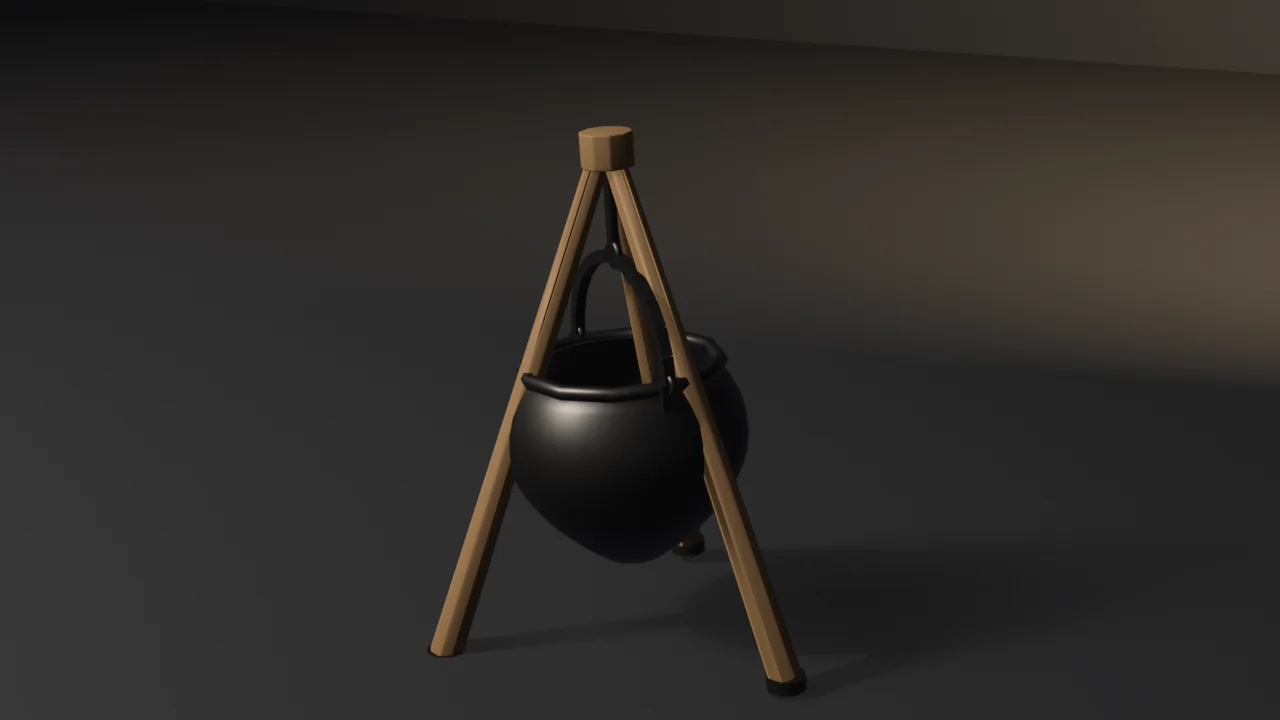
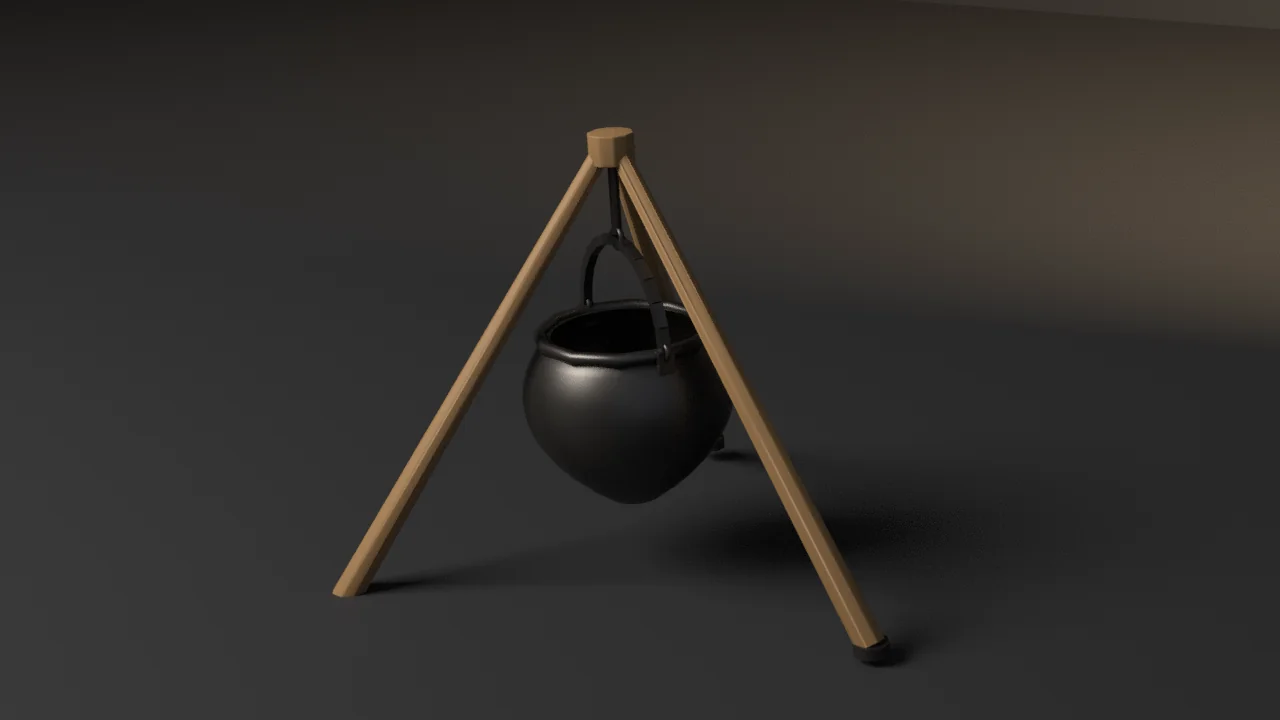
fix: hang the iron cauldron inside the tripod

Changed region(s): [[0.25, 0.1833, 0.7188, 0.9778]]

diff --git a/docs/gallery/iron-cauldron/index.html b/docs/gallery/iron-cauldron/index.html
@@ -253,7 +253,7 @@
       <img src="../assets/iron-cauldron-hero.webp" alt="iron-cauldron render" width="1280" height="720" />
     </button>
     <p class="zoom-hint">Rendered headless by the example itself — click to zoom.</p>
-    <div class="callout"><span class="tag">witnesses</span> Recomputed: 3388 tris, two materials with 450 wood and 1198 metal faces, UVs in 0..1 with zero AABB overlap, outer AABB 0.606×0.591×0.826 m, LOD ratios in band (5.2 COLLAPSE 4 tris leaner on LOD2), convex collider 180 tris, non-empty glTF. --skip-decimate exits 9 on the LOD1 ratio budget.</div>
+    <div class="callout"><span class="tag">witnesses</span> Recomputed: 3388 tris, two materials with 450 wood and 1198 metal faces, UVs in 0..1 with zero AABB overlap, outer AABB 1.013×0.986×0.827 m, pot–leg clearance 0.051 m, LOD ratios in band (5.2 COLLAPSE 8 tris leaner on LOD2), convex collider 98 tris, non-empty glTF. --skip-decimate exits 9 on the LOD1 ratio budget.</div>
     <div class="runline">
       <pre id="runCmd">blender --background --python showcase/iron-cauldron/iron_cauldron.py --</pre>
       <button class="copy-btn" id="copyRun" type="button">Copy</button>
@@ -264,7 +264,7 @@
 <p><strong>Composes</strong> skills <code>mesh-editing-and-bmesh</code>, <code>bake-high-to-low</code>, <code>depsgraph-and-evaluated-data</code>, <code>engine-export-presets</code>, and snippets <code>bake_normal_high_to_low.py</code>, <code>setup_bake_target_image.py</code>, <code>lod_chain.py</code> / <code>decimate_to_budget.py</code>, <code>convex_hull_collider.py</code>, <code>export_preset_unity.py</code> (helpers copied, not imported as a package).</p>
 <h2>Budgets</h2>
 <p>Declared as named constants; every gate <strong>recomputes</strong> from the mesh, materials, UVs, evaluated LOD, collider, or export file.</p>
-<p>| Axis | Declared | Measured (4.5.11 / 5.1.2 / 5.2.1) | | --- | --- | --- | | Base triangles | 3280–3520 | 3388 / 3388 / 3388 | | LOD1 ratio | 0.32–0.62 of base | 0.5000 / 0.5000 / 0.5000 | | LOD2 ratio | 0.10–0.35 of base | 0.2196 / 0.2196 / 0.2184 | | Materials | exactly 2 distinct, ≥12 wood, ≥24 metal | 2 slots, 450 wood, 1198 metal | | UVs | in <code>0..1</code>, AABB overlap ≤ 1e-5 | in range, overlap 0 | | Outer AABB | (0.606, 0.591, 0.826) m ± 0.01 | (0.6061, 0.5911, 0.8255), zmin 0.002 | | Collider tris | ≤ 200 | 180 | | Export | written, size &gt; 0 | 250748 / 250748 / 250736 bytes |</p>
+<p>| Axis | Declared | Measured (4.5.11 / 5.1.2 / 5.2.1) | | --- | --- | --- | | Base triangles | 3280–3520 | 3388 / 3388 / 3388 | | LOD1 ratio | 0.32–0.62 of base | 0.5000 / 0.5000 / 0.5000 | | LOD2 ratio | 0.10–0.35 of base | 0.2196 / 0.2196 / 0.2172 | | Materials | exactly 2 distinct, ≥12 wood, ≥24 metal | 2 slots, 450 wood, 1198 metal | | UVs | in <code>0..1</code>, AABB overlap ≤ 1e-5 | in range, overlap 0 | | Outer AABB | (1.013, 0.986, 0.827) m ± 0.01 | (1.0128, 0.9865, 0.8271), zmin 0.002 | | Pot–leg clearance | ≥ 0.04 m (recomputed vs pole axes) | 0.0513 / 0.0513 / 0.0513 | | Collider tris | ≤ 200 | 98 | | Export | written, size &gt; 0 | 245060 / 245060 / 245044 bytes |</p>
 <p>DECIMATE COLLAPSE triangle counts are <strong>not</strong> identical across series — 5.2.1 is 4 tris leaner on LOD2. The gate is a ratio band, not an exact count. Bake pixels are stochastic; the gate is <code>has_data</code> plus operator <code>FINISHED</code>, not byte-identity. Construction uses no RNG. Export byte counts differ by 12 B on 5.2.1 (glTF serializer), not a gated axis.</p>
 <p><code>--skip-decimate</code> skips the LOD DECIMATE stage so LOD1 ratio is 1.0 and exit 9 fires. That is the named budget the falsifier violates.</p>
 <h2>Run</h2>
@@ -274,7 +274,7 @@ blender --background --python iron_cauldron.py -- --output cauldron.png</code></
 <p>Smoke does not pass <code>--output</code> or <code>--skip-decimate</code>.</p>
 <h2>Exit codes</h2>
 <p>File-local. <code>9</code> is a valid check code. <code>10</code> is reserved for <code>gallery_framing.check_framing</code> on the <code>--output</code> path.</p>
-<p>| Code | Meaning | | --- | --- | | 0 | Success | | 1 | Uncaught exception (FATAL wrapper) | | 2 | argparse / usage | | 3 | Mesh did not build / no UV layer | | 4 | Base triangle count outside range | | 5 | Material count ≠ 2 distinct slots, or wood/metal faces missing | | 6 | UVs outside 0..1 | | 7 | UV AABB overlap above tolerance | | 8 | World AABB off declared outer size | | 9 | LOD ratio band (<code>--skip-decimate</code> lands here) | | 10 | Framing gate (render path only) | | 11 | Collider triangle count above ceiling | | 12 | Bake did not finish or image has no data | | 13 | Export file missing or empty | | 14 | <code>--output</code> produced no file |</p>
+<p>| Code | Meaning | | --- | --- | | 0 | Success | | 1 | Uncaught exception (FATAL wrapper) | | 2 | argparse / usage | | 3 | Mesh did not build / no UV layer / pot clips tripod | | 4 | Base triangle count outside range | | 5 | Material count ≠ 2 distinct slots, or wood/metal faces missing | | 6 | UVs outside 0..1 | | 7 | UV AABB overlap above tolerance | | 8 | World AABB off declared outer size | | 9 | LOD ratio band (<code>--skip-decimate</code> lands here) | | 10 | Framing gate (render path only) | | 11 | Collider triangle count above ceiling | | 12 | Bake did not finish or image has no data | | 13 | Export file missing or empty | | 14 | <code>--output</code> produced no file |</p>
     </section>
     <section class="detail-section src">
       <h2>Source</h2>
@@ -330,12 +330,13 @@ R_BOT = <span class="n">0.050</span>
 R_MID = <span class="n">0.205</span>
 R_TOP = <span class="n">0.148</span>
 APEX_Z = <span class="n">0.82</span>
-TRIPOD_R = <span class="n">0.32</span>
+TRIPOD_R = <span class="n">0.56</span>
 BAIL_SEGS = <span class="n">12</span>
 BAIL_R = <span class="n">0.009</span>
 BBOX_TOL = <span class="n">0.01</span>
+POT_LEG_CLEARANCE_MIN = <span class="n">0.04</span>
 <span class="c"># Fitted after locking geometry. Recomputed from bound_box.</span>
-OUTER_SIZE = (<span class="n">0.606</span>, <span class="n">0.591</span>, <span class="n">0.826</span>)
+OUTER_SIZE = (<span class="n">1.013</span>, <span class="n">0.986</span>, <span class="n">0.827</span>)
 
 BASE_TRIS_MIN = <span class="n">3280</span>
 BASE_TRIS_MAX = <span class="n">3520</span>
@@ -726,6 +727,49 @@ METAL_IDX = <span class="n">1</span>
     <span class="k">return</span> (min(xs), min(ys), min(zs), max(xs), max(ys), max(zs))
 
 
+<span class="k">def</span> pot_tripod_clearance(mesh):
+    <span class="c"># Recomputed from verts vs the three pole axes. Leg verts sit on the</span>
+    <span class="c"># axes and are skipped; remaining shell verts in the pot band must</span>
+    <span class="c"># clear the pole radius.</span>
+    feet = []
+    <span class="k">for</span> i <span class="k">in</span> range(<span class="n">3</span>):
+        ang = i * (<span class="n">2.0</span> * math.pi / <span class="n">3.0</span>) + math.radians(<span class="n">18.0</span>)
+        feet.append(
+            Vector((TRIPOD_R * math.cos(ang), TRIPOD_R * math.sin(ang), <span class="n">0.016</span>))
+        )
+    apex = Vector((<span class="n">0.0</span>, <span class="n">0.0</span>, APEX_Z))
+    z0 = POT_Z0 - <span class="n">0.02</span>
+    z1 = POT_Z0 + POT_H + <span class="n">0.03</span>
+    min_c = <span class="k">None</span>
+    <span class="k">for</span> v <span class="k">in</span> mesh.vertices:
+        p = Vector(v.co)
+        <span class="k">if</span> p.z &lt; z0 <span class="k">or</span> p.z &gt; z1:
+            <span class="k">continue</span>
+        <span class="k">if</span> math.hypot(p.x, p.y) &lt; <span class="n">0.06</span>:
+            <span class="k">continue</span>
+        nearest = <span class="k">None</span>
+        on_pole = <span class="k">False</span>
+        <span class="k">for</span> foot <span class="k">in</span> feet:
+            ab = apex - foot
+            denom = ab.length_squared
+            <span class="k">if</span> denom &lt; <span class="n">1e-12</span>:
+                <span class="k">continue</span>
+            t = max(<span class="n">0.0</span>, min(<span class="n">1.0</span>, (p - foot).dot(ab) / denom))
+            axis = (p - (foot + t * ab)).length
+            rad = <span class="n">0.028</span> * (<span class="n">1.0</span> - t) + <span class="n">0.018</span> * t
+            gap = axis - rad
+            <span class="k">if</span> axis &lt; rad + <span class="n">0.006</span>:
+                on_pole = <span class="k">True</span>
+                <span class="k">break</span>
+            <span class="k">if</span> nearest <span class="k">is</span> <span class="k">None</span> <span class="k">or</span> gap &lt; nearest:
+                nearest = gap
+        <span class="k">if</span> on_pole <span class="k">or</span> nearest <span class="k">is</span> <span class="k">None</span>:
+            <span class="k">continue</span>
+        <span class="k">if</span> min_c <span class="k">is</span> <span class="k">None</span> <span class="k">or</span> nearest &lt; min_c:
+            min_c = nearest
+    <span class="k">return</span> min_c <span class="k">if</span> min_c <span class="k">is</span> <span class="k">not</span> <span class="k">None</span> <span class="k">else</span> -<span class="n">1.0</span>
+
+
 <span class="k">def</span> uv_stats(mesh):
     uv = mesh.uv_layers.active
     <span class="k">if</span> uv <span class="k">is</span> <span class="k">None</span>:
@@ -868,6 +912,14 @@ METAL_IDX = <span class="n">1</span>
     size_x = bb[<span class="n">3</span>] - bb[<span class="n">0</span>]
     size_y = bb[<span class="n">4</span>] - bb[<span class="n">1</span>]
     size_z = bb[<span class="n">5</span>] - bb[<span class="n">2</span>]
+    clearance = pot_tripod_clearance(low.data)
+    print(<span class="s">f&quot;</span><span class="s">measured pot_tripod_clearance=</span>{clearance:<span class="s">.4f</span>}<span class="s">&quot;</span>)
+    <span class="k">if</span> clearance &lt; POT_LEG_CLEARANCE_MIN:
+        <span class="k">return</span> fail(
+            <span class="s">f&quot;</span><span class="s">pot clips tripod clearance </span>{clearance:<span class="s">.4f</span>}<span class="s"> </span><span class="s">&quot;</span>
+            <span class="s">f&quot;</span><span class="s">&lt; </span>{POT_LEG_CLEARANCE_MIN}<span class="s">&quot;</span>,
+            <span class="n">3</span>,
+        ), <span class="k">None</span>, <span class="k">None</span>, <span class="k">None</span>, <span class="k">None</span>, <span class="k">None</span>
 
     img, tex = setup_bake_image(low, wood)
     <span class="k">if</span> img <span class="k">is</span> <span class="k">None</span>:
@@ -1046,10 +1098,10 @@ METAL_IDX = <span class="n">1</span>
     cam_data = bpy.data.cameras.new(<span class="s">&quot;Cam&quot;</span>)
     cam_data.lens = <span class="n">50.0</span>
     cam = bpy.data.objects.new(<span class="s">&quot;Cam&quot;</span>, cam_data)
-    cam.location = (<span class="n">1.58</span>, -<span class="n">2.18</span>, <span class="n">1.22</span>)
+    cam.location = (<span class="n">1.82</span>, -<span class="n">2.50</span>, <span class="n">1.40</span>)
     scene.collection.objects.link(cam)
     aim = bpy.data.objects.new(<span class="s">&quot;Aim&quot;</span>, <span class="k">None</span>)
-    aim.location = (<span class="n">0.0</span>, <span class="n">0.0</span>, <span class="n">0.46</span>)
+    aim.location = (<span class="n">0.0</span>, <span class="n">0.0</span>, <span class="n">0.40</span>)
     scene.collection.objects.link(aim)
     con = cam.constraints.new(<span class="s">&quot;TRACK_TO&quot;</span>)
     con.target = aim

diff --git a/docs/gallery/index.html b/docs/gallery/index.html
@@ -1145,7 +1145,7 @@
         <div class="card-body">
           <h2><a href="iron-cauldron/">iron-cauldron</a></h2>
           <p class="teaches">A procedural hanging iron cauldron with a bulged open pot, bail, and timber tripod through UVs, bake, LOD, collider, and Unity glTF, asserting recomputed budgets rather than an API contract.</p>
-          <p class="witnesses"><span class="tag">witnesses</span> Recomputed: 3388 tris, two materials with 450 wood and 1198 metal faces, UVs in 0..1 with zero AABB overlap, outer AABB 0.606×0.591×0.826 m, LOD ratios in band (5.2 COLLAPSE 4 tris leaner on LOD2), convex collider 180 tris, non-empty glTF. --skip-decimate exits 9 on the LOD1 ratio budget.</p>
+          <p class="witnesses"><span class="tag">witnesses</span> Recomputed: 3388 tris, two materials with 450 wood and 1198 metal faces, UVs in 0..1 with zero AABB overlap, outer AABB 1.013×0.986×0.827 m, pot–leg clearance 0.051 m, LOD ratios in band (5.2 COLLAPSE 8 tris leaner on LOD2), convex collider 98 tris, non-empty glTF. --skip-decimate exits 9 on the LOD1 ratio budget.</p>
           <a class="card-link" href="iron-cauldron/">View example <span aria-hidden="true">&rarr;</span></a>
         </div>
       </article>

diff --git a/showcase/iron-cauldron/iron_cauldron.py b/showcase/iron-cauldron/iron_cauldron.py
@@ -46,12 +46,13 @@ R_BOT = 0.050
 R_MID = 0.205
 R_TOP = 0.148
 APEX_Z = 0.82
-TRIPOD_R = 0.32
+TRIPOD_R = 0.56
 BAIL_SEGS = 12
 BAIL_R = 0.009
 BBOX_TOL = 0.01
+POT_LEG_CLEARANCE_MIN = 0.04
 # Fitted after locking geometry. Recomputed from bound_box.
-OUTER_SIZE = (0.606, 0.591, 0.826)
+OUTER_SIZE = (1.013, 0.986, 0.827)
 
 BASE_TRIS_MIN = 3280
 BASE_TRIS_MAX = 3520
@@ -442,6 +443,49 @@ def world_bbox(obj):
     return (min(xs), min(ys), min(zs), max(xs), max(ys), max(zs))
 
 
+def pot_tripod_clearance(mesh):
+    # Recomputed from verts vs the three pole axes. Leg verts sit on the
+    # axes and are skipped; remaining shell verts in the pot band must
+    # clear the pole radius.
+    feet = []
+    for i in range(3):
+        ang = i * (2.0 * math.pi / 3.0) + math.radians(18.0)
+        feet.append(
+            Vector((TRIPOD_R * math.cos(ang), TRIPOD_R * math.sin(ang), 0.016))
+        )
+    apex = Vector((0.0, 0.0, APEX_Z))
+    z0 = POT_Z0 - 0.02
+    z1 = POT_Z0 + POT_H + 0.03
+    min_c = None
+    for v in mesh.vertices:
+        p = Vector(v.co)
+        if p.z < z0 or p.z > z1:
+            continue
+        if math.hypot(p.x, p.y) < 0.06:
+            continue
+        nearest = None
+        on_pole = False
+        for foot in feet:
+            ab = apex - foot
+            denom = ab.length_squared
+            if denom < 1e-12:
+                continue
+            t = max(0.0, min(1.0, (p - foot).dot(ab) / denom))
+            axis = (p - (foot + t * ab)).length
+            rad = 0.028 * (1.0 - t) + 0.018 * t
+            gap = axis - rad
+            if axis < rad + 0.006:
+                on_pole = True
+                break
+            if nearest is None or gap < nearest:
+                nearest = gap
+        if on_pole or nearest is None:
+            continue
+        if min_c is None or nearest < min_c:
+            min_c = nearest
+    return min_c if min_c is not None else -1.0
+
+
 def uv_stats(mesh):
     uv = mesh.uv_layers.active
     if uv is None:
@@ -584,6 +628,14 @@ def check(skip_decimate):
     size_x = bb[3] - bb[0]
     size_y = bb[4] - bb[1]
     size_z = bb[5] - bb[2]
+    clearance = pot_tripod_clearance(low.data)
+    print(f"measured pot_tripod_clearance={clearance:.4f}")
+    if clearance < POT_LEG_CLEARANCE_MIN:
+        return fail(
+            f"pot clips tripod clearance {clearance:.4f} "
+            f"< {POT_LEG_CLEARANCE_MIN}",
+            3,
+        ), None, None, None, None, None
 
     img, tex = setup_bake_image(low, wood)
     if img is None:
@@ -762,10 +814,10 @@ def render_still(low, wood, tex, path, engine):
     cam_data = bpy.data.cameras.new("Cam")
     cam_data.lens = 50.0
     cam = bpy.data.objects.new("Cam", cam_data)
-    cam.location = (1.58, -2.18, 1.22)
+    cam.location = (1.82, -2.50, 1.40)
     scene.collection.objects.link(cam)
     aim = bpy.data.objects.new("Aim", None)
-    aim.location = (0.0, 0.0, 0.46)
+    aim.location = (0.0, 0.0, 0.40)
     scene.collection.objects.link(aim)
     con = cam.constraints.new("TRACK_TO")
     con.target = aim

diff --git a/showcase/iron-cauldron/README.md b/showcase/iron-cauldron/README.md
@@ -23,18 +23,21 @@ materials, UVs, evaluated LOD, collider, or export file.
 | --- | --- | --- |
 | Base triangles | 3280–3520 | 3388 / 3388 / 3388 |
 | LOD1 ratio | 0.32–0.62 of base | 0.5000 / 0.5000 / 0.5000 |
-| LOD2 ratio | 0.10–0.35 of base | 0.2196 / 0.2196 / 0.2184 |
+| LOD2 ratio | 0.10–0.35 of base | 0.2196 / 0.2196 / 0.2172 |
 | Materials | exactly 2 distinct, ≥12 wood, ≥24 metal | 2 slots, 450 wood, 1198 metal |
 | UVs | in `0..1`, AABB overlap ≤ 1e-5 | in range, overlap 0 |
-| Outer AABB | (0.606, 0.591, 0.826) m ± 0.01 | (0.6061, 0.5911, 0.8255), zmin 0.002 |
-| Collider tris | ≤ 200 | 180 |
-| Export | written, size > 0 | 250748 / 250748 / 250736 bytes |
+| Outer AABB | (1.013, 0.986, 0.827) m ± 0.01 | (1.0128, 0.9865, 0.8271), zmin 0.002 |
+| Pot–leg clearance | ≥ 0.04 m (recomputed vs pole axes) | 0.0513 / 0.0513 / 0.0513 |
+| Collider tris | ≤ 200 | 98 |
+| Export | written, size > 0 | 245060 / 245060 / 245044 bytes |
 
 DECIMATE COLLAPSE triangle counts are **not** identical across series —
-5.2.1 is 4 tris leaner on LOD2. The gate is a ratio band, not an exact
+5.2.1 is 8 tris leaner on LOD2. The gate is a ratio band, not an exact
 count. Bake pixels are stochastic; the gate is `has_data` plus operator
 `FINISHED`, not byte-identity. Construction uses no RNG. Export byte
-counts differ by 12 B on 5.2.1 (glTF serializer), not a gated axis.
+counts differ by 16 B on 5.2.1 (glTF serializer), not a gated axis.
+The pot–leg clearance is recomputed from shell verts vs the three pole
+axes; clipping exits 3.
 
 `--skip-decimate` skips the LOD DECIMATE stage so LOD1 ratio is 1.0 and
 exit 9 fires. That is the named budget the falsifier violates.
@@ -59,7 +62,7 @@ File-local. `9` is a valid check code. `10` is reserved for
 | 0 | Success |
 | 1 | Uncaught exception (FATAL wrapper) |
 | 2 | argparse / usage |
-| 3 | Mesh did not build / no UV layer |
+| 3 | Mesh did not build / no UV layer / pot clips tripod |
 | 4 | Base triangle count outside range |
 | 5 | Material count ≠ 2 distinct slots, or wood/metal faces missing |
 | 6 | UVs outside 0..1 |
